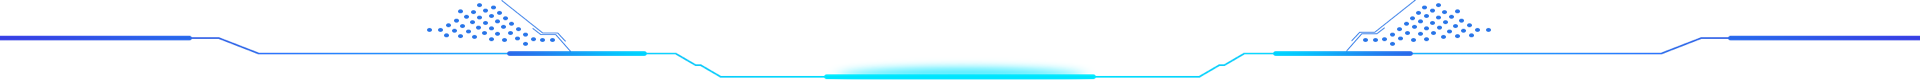
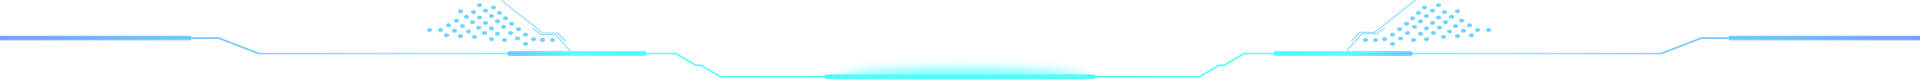
修改部分主要样式

diff --git a/src/app/pages/main/home/home.component.less b/src/app/pages/main/home/home.component.less
@@ -1,16 +1,17 @@
 main {
-  background: linear-gradient(#174D8A, #010610);
+  // background: linear-gradient(#00A1FF, #136AD5);
   width: 100%;
   min-width: 1200px;
   min-height: 100%;
   overflow: hidden;
+  background-image: radial-gradient(50% 0%, #00A1FF 0%, #136AD5 100%);
 
   header {
     width: 100%;
     min-width: 1200px;
     height: 80px;
     text-align: center;
-    color: #5CFFEC;
+    color: #FFFFFF;
     font-size: 40px;
     letter-spacing: 0;
     line-height: 80px;
